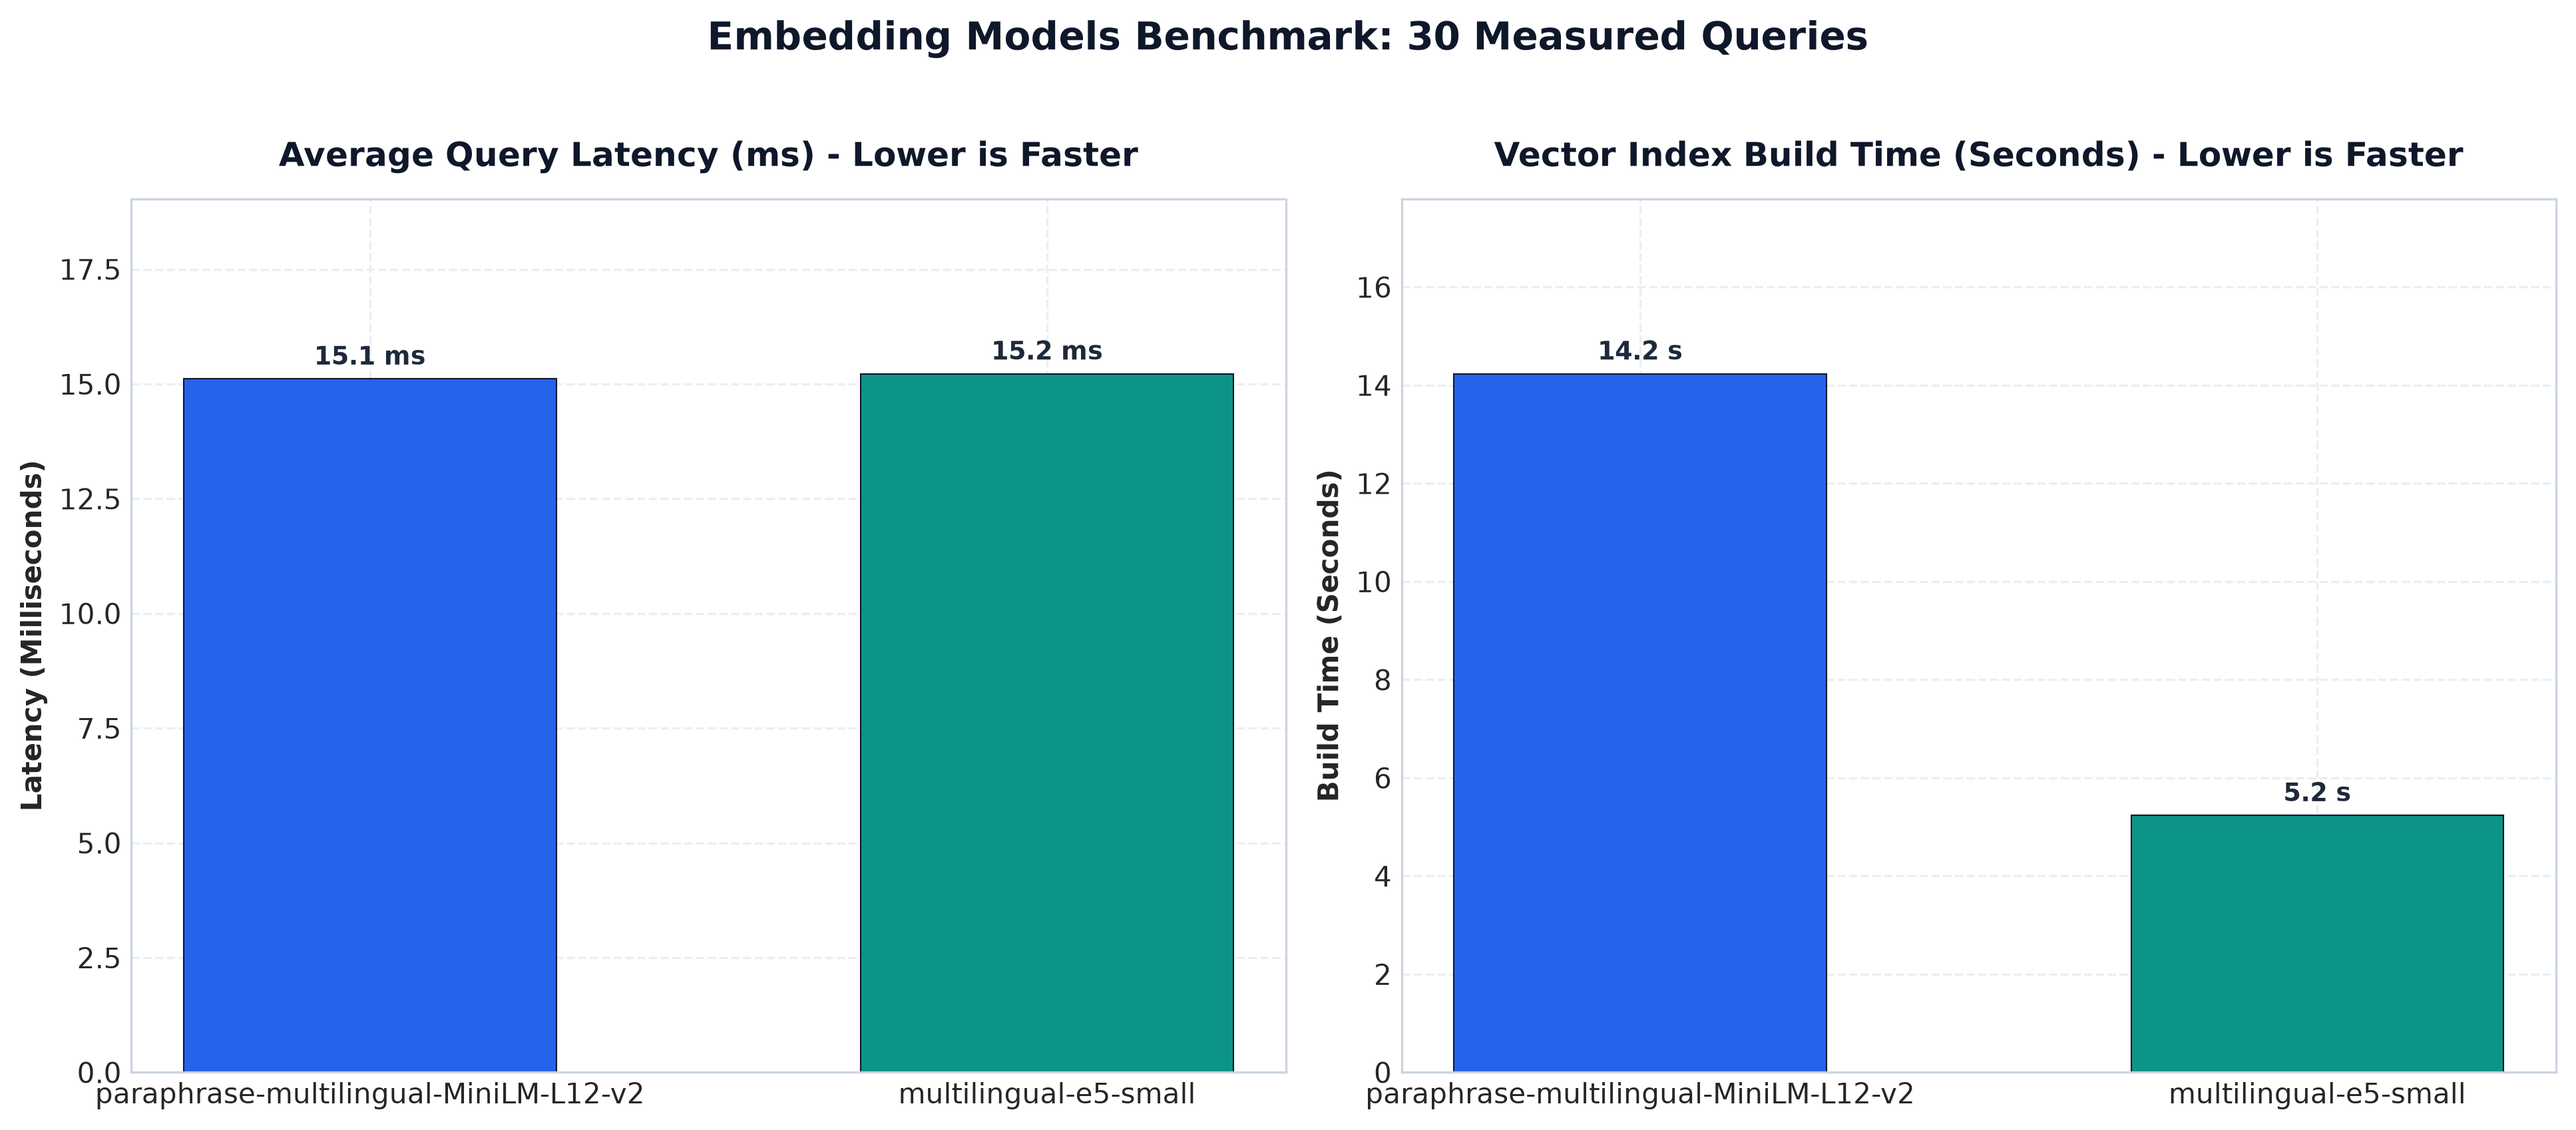
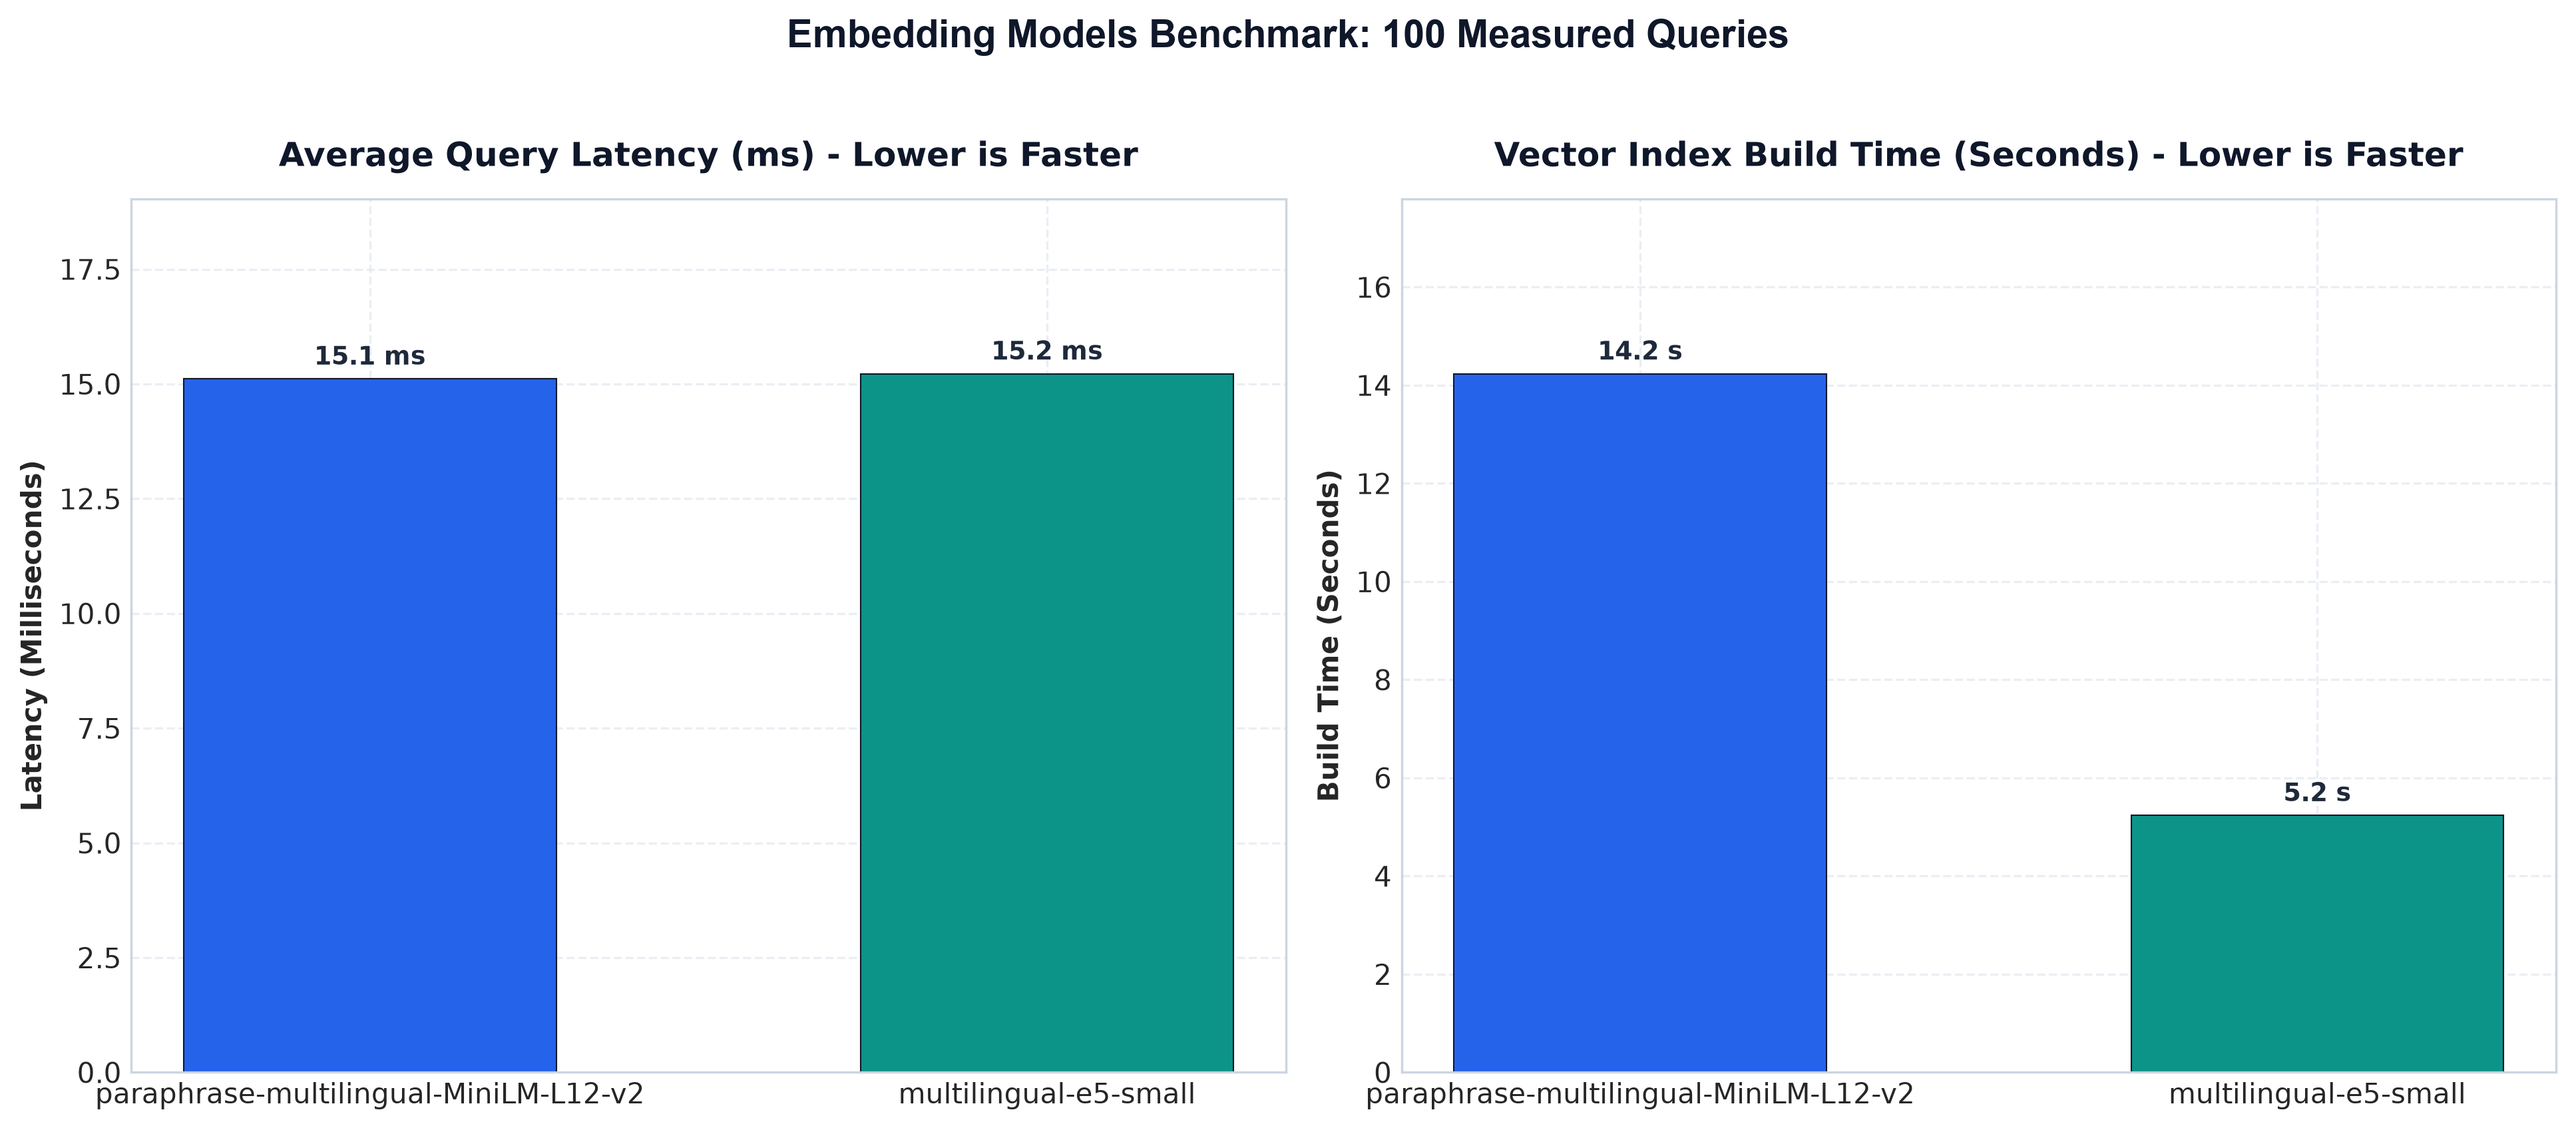
docs: add final report and update benchmark documentation

Changed region(s): [[0.2791, 0.0, 0.7132, 0.0624]]

diff --git a/src/evaluation/generate_charts.py b/src/evaluation/generate_charts.py
@@ -96,7 +96,18 @@ def plot_embedding_comparison(output_path: str):
     ax2.set_ylim(0, max(build_time) * 1.25)
     add_bar_labels(ax2, bars2, fmt="%.1f", unit=" s")
 
-    fig.suptitle("Embedding Models Benchmark: 30 Measured Queries", fontsize=14, fontweight="bold", y=1.02, color="#0F172A")
+    measured_query_counts = [
+        int(result.get("total_queries_tested", result.get("num_queries", 0)))
+        for result in measured.values()
+    ]
+    measured_query_count = max(measured_query_counts, default=0)
+    fig.suptitle(
+        f"Embedding Models Benchmark: {measured_query_count} Measured Queries",
+        fontsize=14,
+        fontweight="bold",
+        y=1.02,
+        color="#0F172A",
+    )
     plt.tight_layout()
     plt.savefig(output_path, bbox_inches="tight", dpi=300)
     plt.close()

diff --git a/README.md b/README.md
@@ -29,7 +29,7 @@
 8. [การเชื่อมต่อ LINE Chatbot & Cloudflare Tunnel 📱](#8-การเชื่อมต่อ-line-chatbot--cloudflare-tunnel-)
 9. [คู่มือการติดตั้งและการใช้งาน (Setup & Usage Guide)](#9-คู่มือการติดตั้งและการใช้งาน-setup--usage-guide)
 10. [Automated Testing Suite (17 Test Suites)](#10-automated-testing-suite)
-11. [เอกสารสำหรับสไลด์นำเสนอ (Presentation Deck Guide)](#11-เอกสารสำหรับสไลด์นำเสนอ-presentation-deck-guide)
+11. [เอกสารรายงานและสไลด์ (Report & Presentation)](#11-เอกสารรายงานและสไลด์-report--presentation)
 12. [ตารางเทียบเกณฑ์ประเมิน Rubric](#12-ตารางเทียบเกณฑ์ประเมิน-rubric)
 13. [ข้อจำกัดและทิศทางการพัฒนาต่อ (Limitations & Future Work)](#13-ข้อจำกัดและทิศทางการพัฒนาต่อ-limitations--future-work)
 
@@ -181,6 +181,8 @@ flowchart TD
 
 ### 5.2 การทดสอบ Embedding Models: MiniLM vs E5-small
 
+การทดลองนี้วัดจากคำถามจริง **100 ข้อ** ชุดเดียวกับ retrieval benchmark ไม่ใช่ผลจากตัวอย่างขนาดเล็ก:
+
 | โมเดล (Embedding Model) | มิติ (Dimensions) | เวลาสร้าง Index (Build Time) | Query Latency | Hit@1 | Hit@3 |
 |---|:---:|:---:|:---:|:---:|:---:|
 | **paraphrase-multilingual-MiniLM-L12-v2** | 384 | 14.232 วินาที | **15.11 ms** | 42% | 64% |
@@ -312,7 +314,23 @@ python -m unittest tests/test_service.py -v          # ทดสอบ RAG Orche
 
 ---
 
-## 11. เอกสารสำหรับสไลด์นำเสนอ (Presentation Deck Guide)
+## 11. เอกสารรายงานและสไลด์ (Report & Presentation)
+
+### 11.1 รายงานโครงงานฉบับสมบูรณ์
+
+รายงานจัดทำตามโครงร่าง Final Project วิศวกรรมศาสตร์ ใช้ฟอนต์ **TH Sarabun New** พร้อมเลขหน้าและสารบัญที่อัปเดตแล้ว รวมทั้งหมด **31 หน้า** เนื้อหาครอบคลุม:
+
+- ที่มา วัตถุประสงค์ ขอบเขต เกณฑ์ความสำเร็จ และคำถามวิจัย
+- ทฤษฎี Dense RAG, Graph RAG, Hybrid Fusion, LLM และตัวชี้วัดการประเมิน
+- สถาปัตยกรรมระบบ Data Pipeline, Query Flow, RRF, Reranking และกลไก Fallback
+- ผล Retrieval Ablation 100 ข้อ, Held-out 40 ข้อ และ Embedding Benchmark 100 ข้อ
+- ผลรัน Gemini และ Ollama จริง, Hardware Profiling, Repeated Latency และ Error Analysis
+- ข้อจำกัด ภัยคุกคามต่อความเที่ยงตรง แนวทาง Human Evaluation และการนำไปใช้งานจริง
+- ภาคผนวกคู่มือติดตั้ง คำสั่งประเมินผล และการเปิดดู Neo4j Graph
+
+> ไฟล์ Word ฉบับเต็มเก็บไว้นอก repository ส่วนผล retrieval, latency, embedding และ LLM ที่ใช้อ้างอิงมีหลักฐานการรันอยู่ใน repository ทั้งนี้ Human Evaluation จากผู้ประเมินอิสระยังไม่ได้ดำเนินการและระบุเป็นงานต่อยอดอย่างชัดเจน
+
+### 11.2 เอกสารสำหรับสไลด์นำเสนอ
 
 สำหรับทีมงานที่ต้องเตรียมสไลด์พรีเซนต์โครงงาน สามารถเปิดดูเอกสารคู่มือสไลด์ฉบับเต็มทั้ง 7 หัวข้อหลัก พร้อมแผนภาพ Mermaid, ตารางผลการทดลอง และบทพูดสรุป ได้ที่:  
 👉 **[docs/presentation_slides.md](./docs/presentation_slides.md)**
